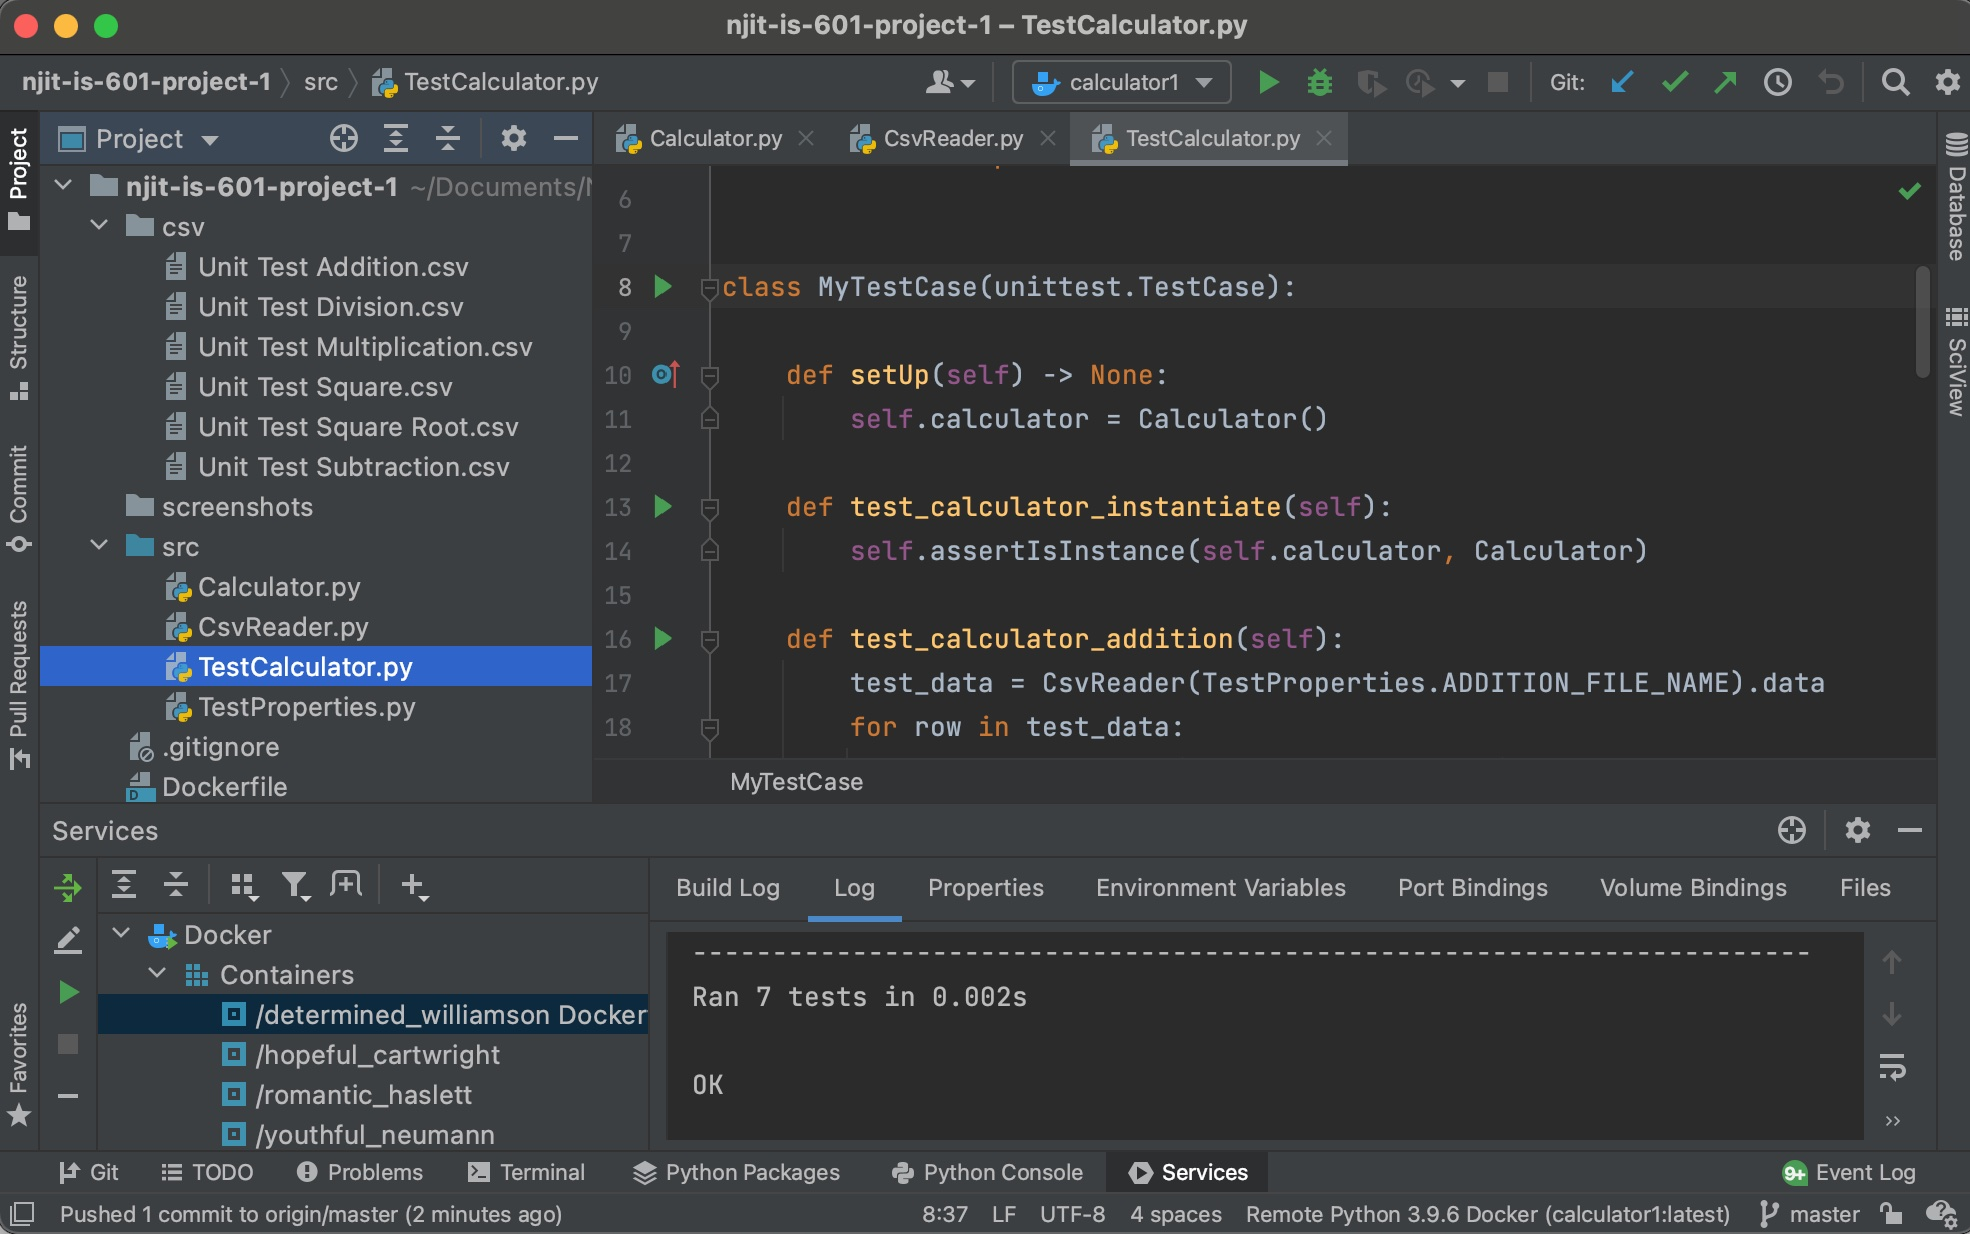
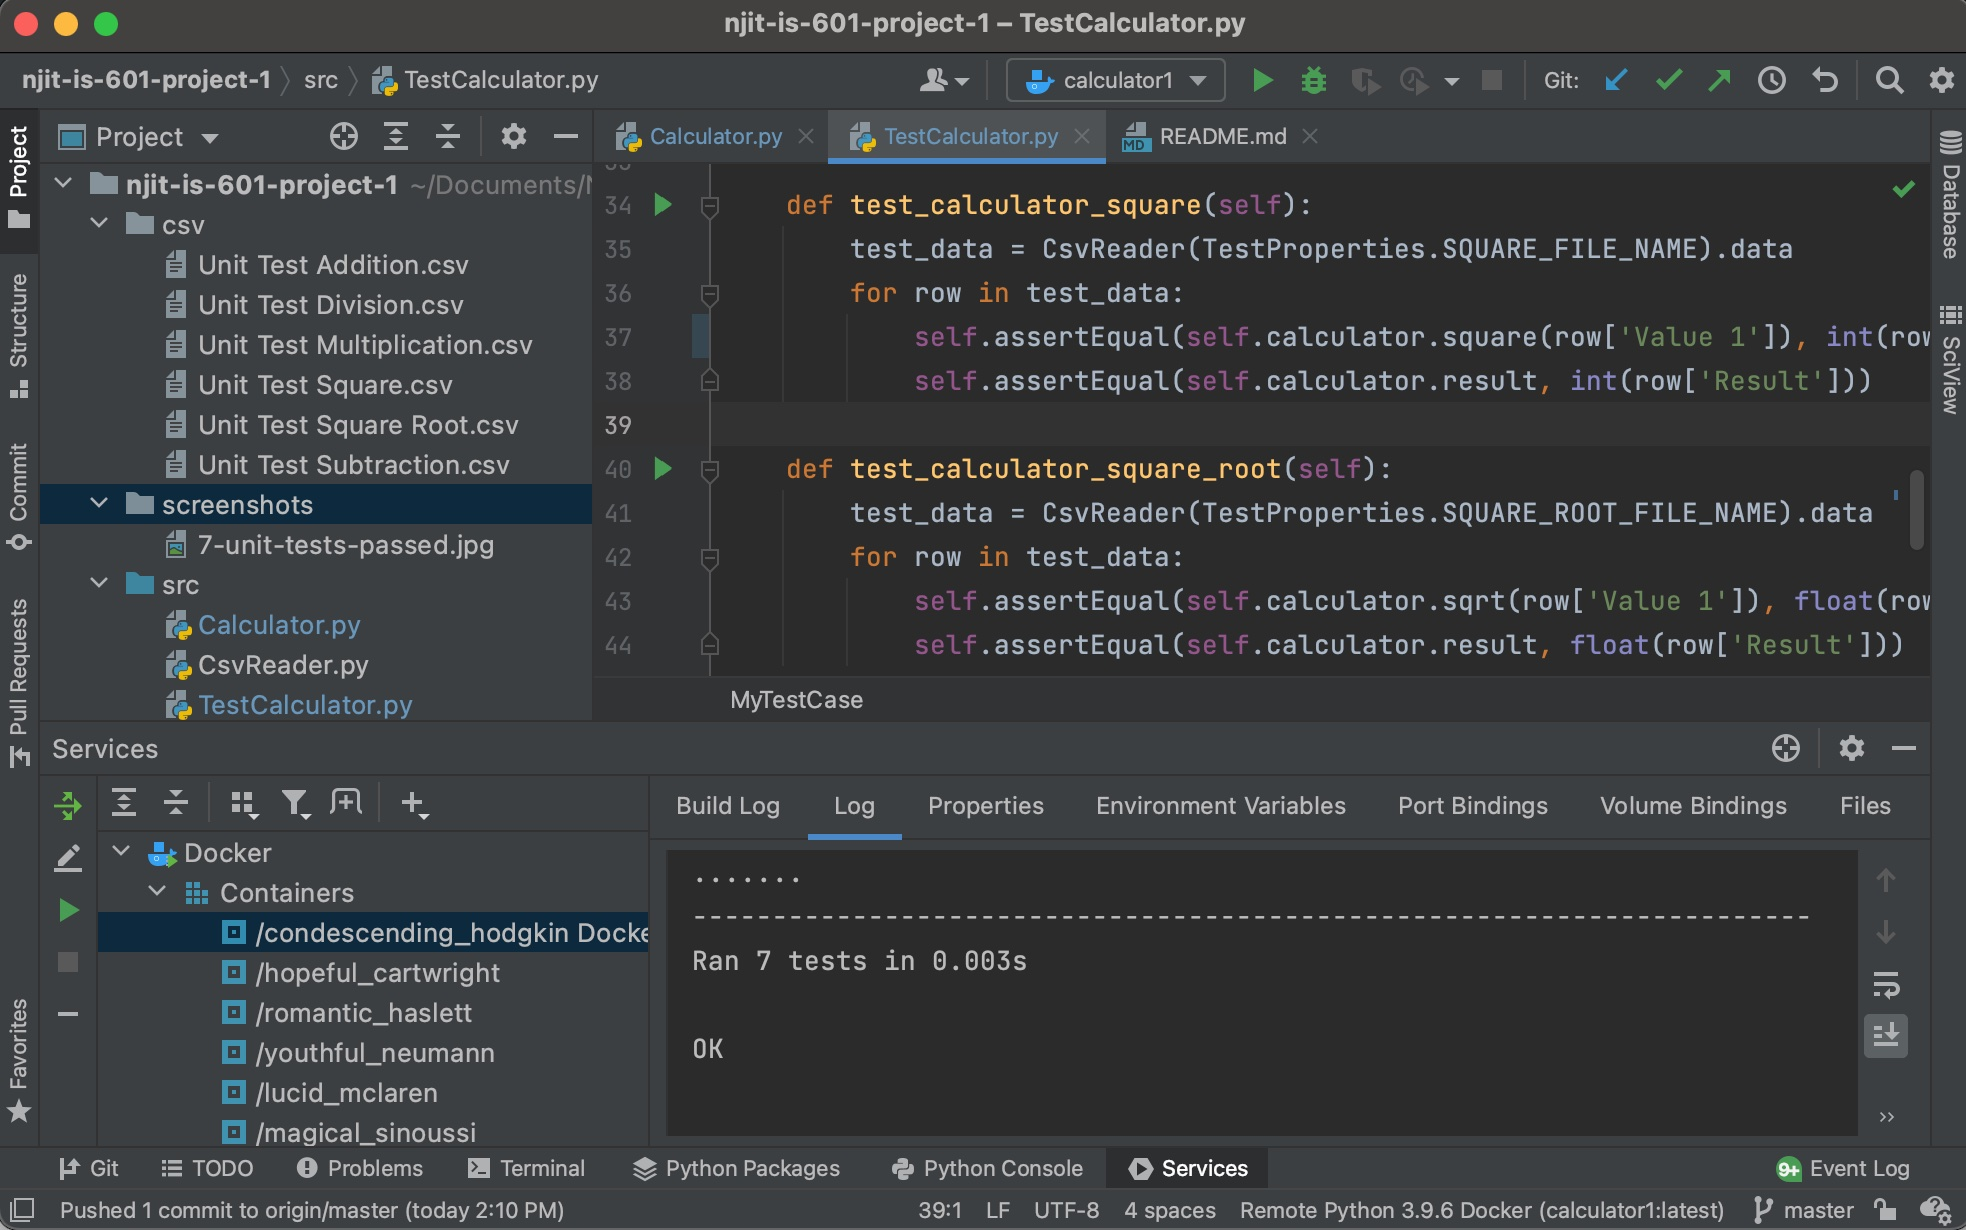
Task: Refactor Class Methods to be Static methods

diff --git a/src/Calculator.py b/src/Calculator.py
@@ -1,6 +1,33 @@
 import math
 
 
+# Static Methods:
+def addition(a, b):
+    return int(a) + int(b)
+
+
+def division(a, b):
+    return round(float(b) / float(a), 9)  # limit to 9 decimal places
+
+
+def multiplication(a, b):
+    return int(a) * int(b)
+
+
+def square(a):
+    return int(a) ** 2
+
+
+def square_root(a):
+    c = math.sqrt(int(a))  # get result
+    sigfig = math.floor(math.log(c, 10)) + 1  # number of significant digits in result
+    return round(c, 9 - sigfig + 1)  # limit to 9 significant figures
+
+
+def subtraction(a, b):
+    return int(b) - int(a)
+
+
 class Calculator:
     # Initialization:
     result = 0
@@ -8,54 +35,27 @@ class Calculator:
     def __init__(self):
         pass
 
-    # Class Methods:
-    @classmethod
-    def addition(cls, a, b):
-        return int(a) + int(b)
-
-    @classmethod
-    def division(cls, a, b):
-        return round(float(b) / float(a), 9)  # limit to 9 decimal places
-
-    @classmethod
-    def multiplication(cls, a, b):
-        return int(a) * int(b)
-
-    @classmethod
-    def square(cls, a):
-        return int(a) ** 2
-
-    @classmethod
-    def square_root(cls, a):
-        c = math.sqrt(int(a))  # get result
-        sigfig = math.floor(math.log(c, 10)) + 1  # number of significant digits in result
-        return round(c, 9 - sigfig + 1)  # limit to 9 significant figures
-
-    @classmethod
-    def subtraction(cls, a, b):
-        return int(b) - int(a)
-
     # Object Methods:
     def add(self, a, b):
-        self.result = self.addition(a, b)
+        self.result = addition(a, b)
         return self.result
 
     def divide(self, a, b):
-        self.result = self.division(a, b)
+        self.result = division(a, b)
         return self.result
 
     def multiply(self, a, b):
-        self.result = self.multiplication(a, b)
+        self.result = multiplication(a, b)
         return self.result
 
-    def squared(self, a):
-        self.result = self.square(a)
+    def square(self, a):
+        self.result = square(a)
         return self.result
 
     def sqrt(self, a):
-        self.result = self.square_root(a)
+        self.result = square_root(a)
         return self.result
 
     def subtract(self, a, b):
-        self.result = self.subtraction(a, b)
+        self.result = subtraction(a, b)
         return self.result

diff --git a/src/TestCalculator.py b/src/TestCalculator.py
@@ -34,7 +34,7 @@ class MyTestCase(unittest.TestCase):
     def test_calculator_square(self):
         test_data = CsvReader(TestProperties.SQUARE_FILE_NAME).data
         for row in test_data:
-            self.assertEqual(self.calculator.squared(row['Value 1']), int(row['Result']))
+            self.assertEqual(self.calculator.square(row['Value 1']), int(row['Result']))
             self.assertEqual(self.calculator.result, int(row['Result']))
 
     def test_calculator_square_root(self):
